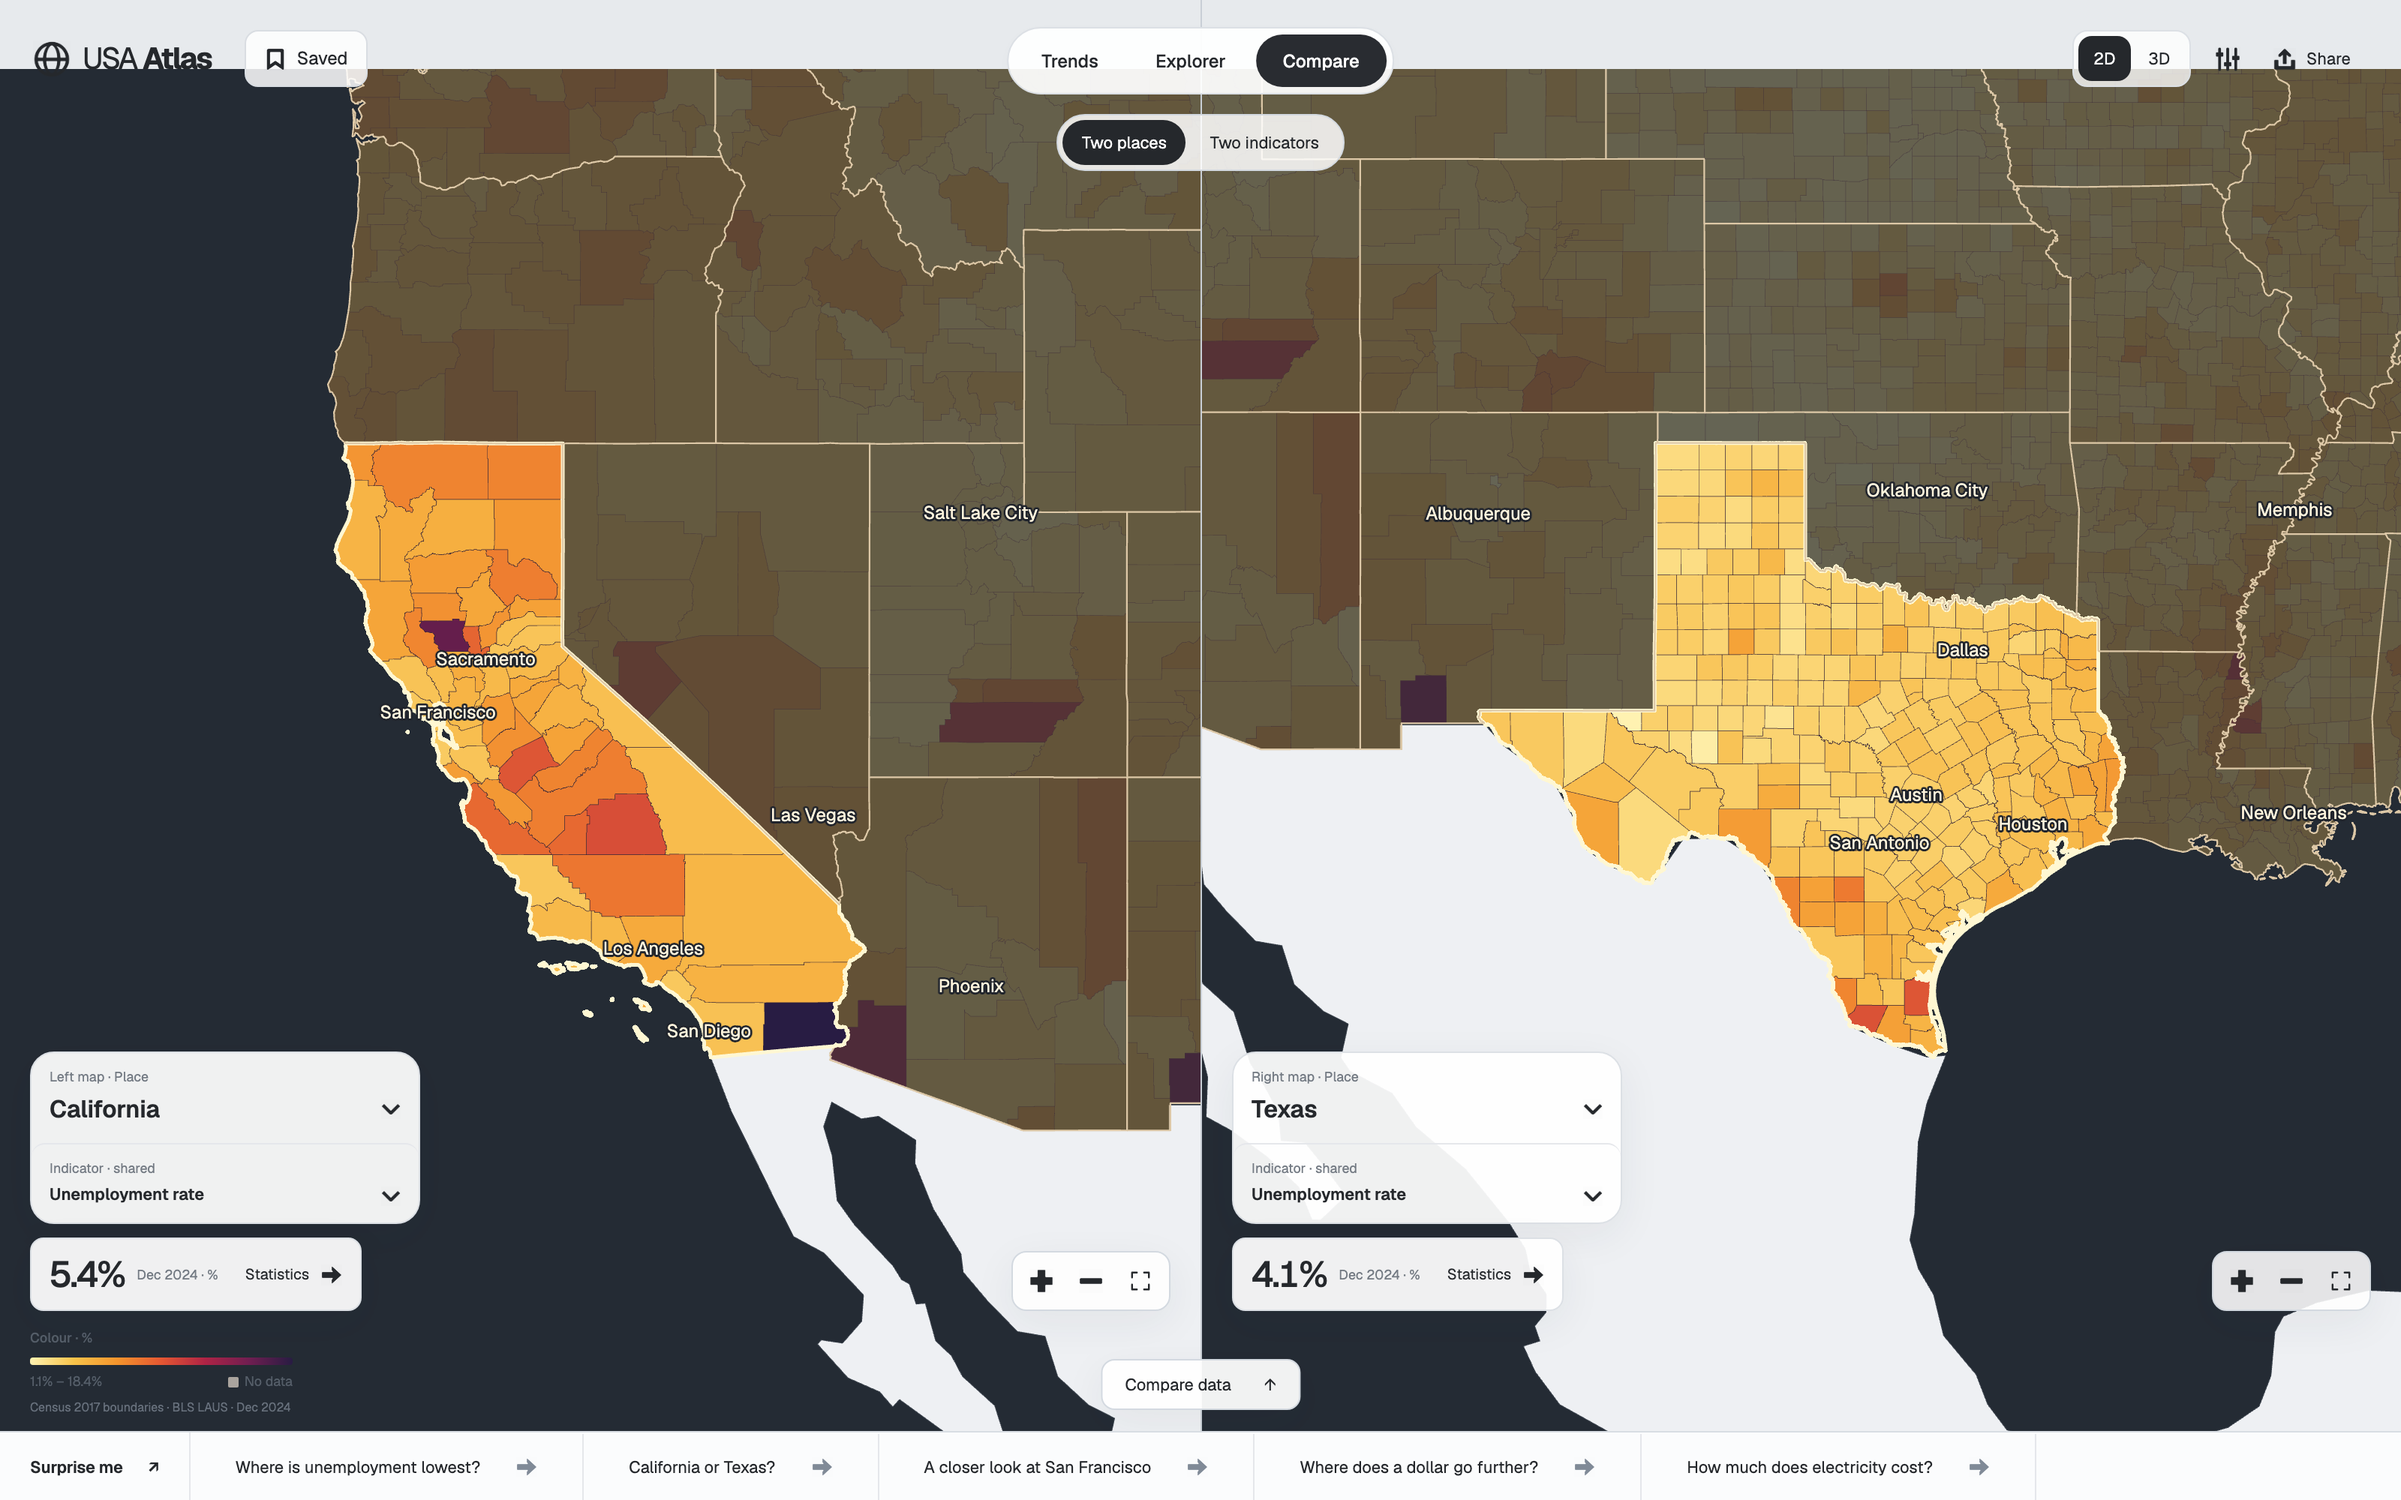
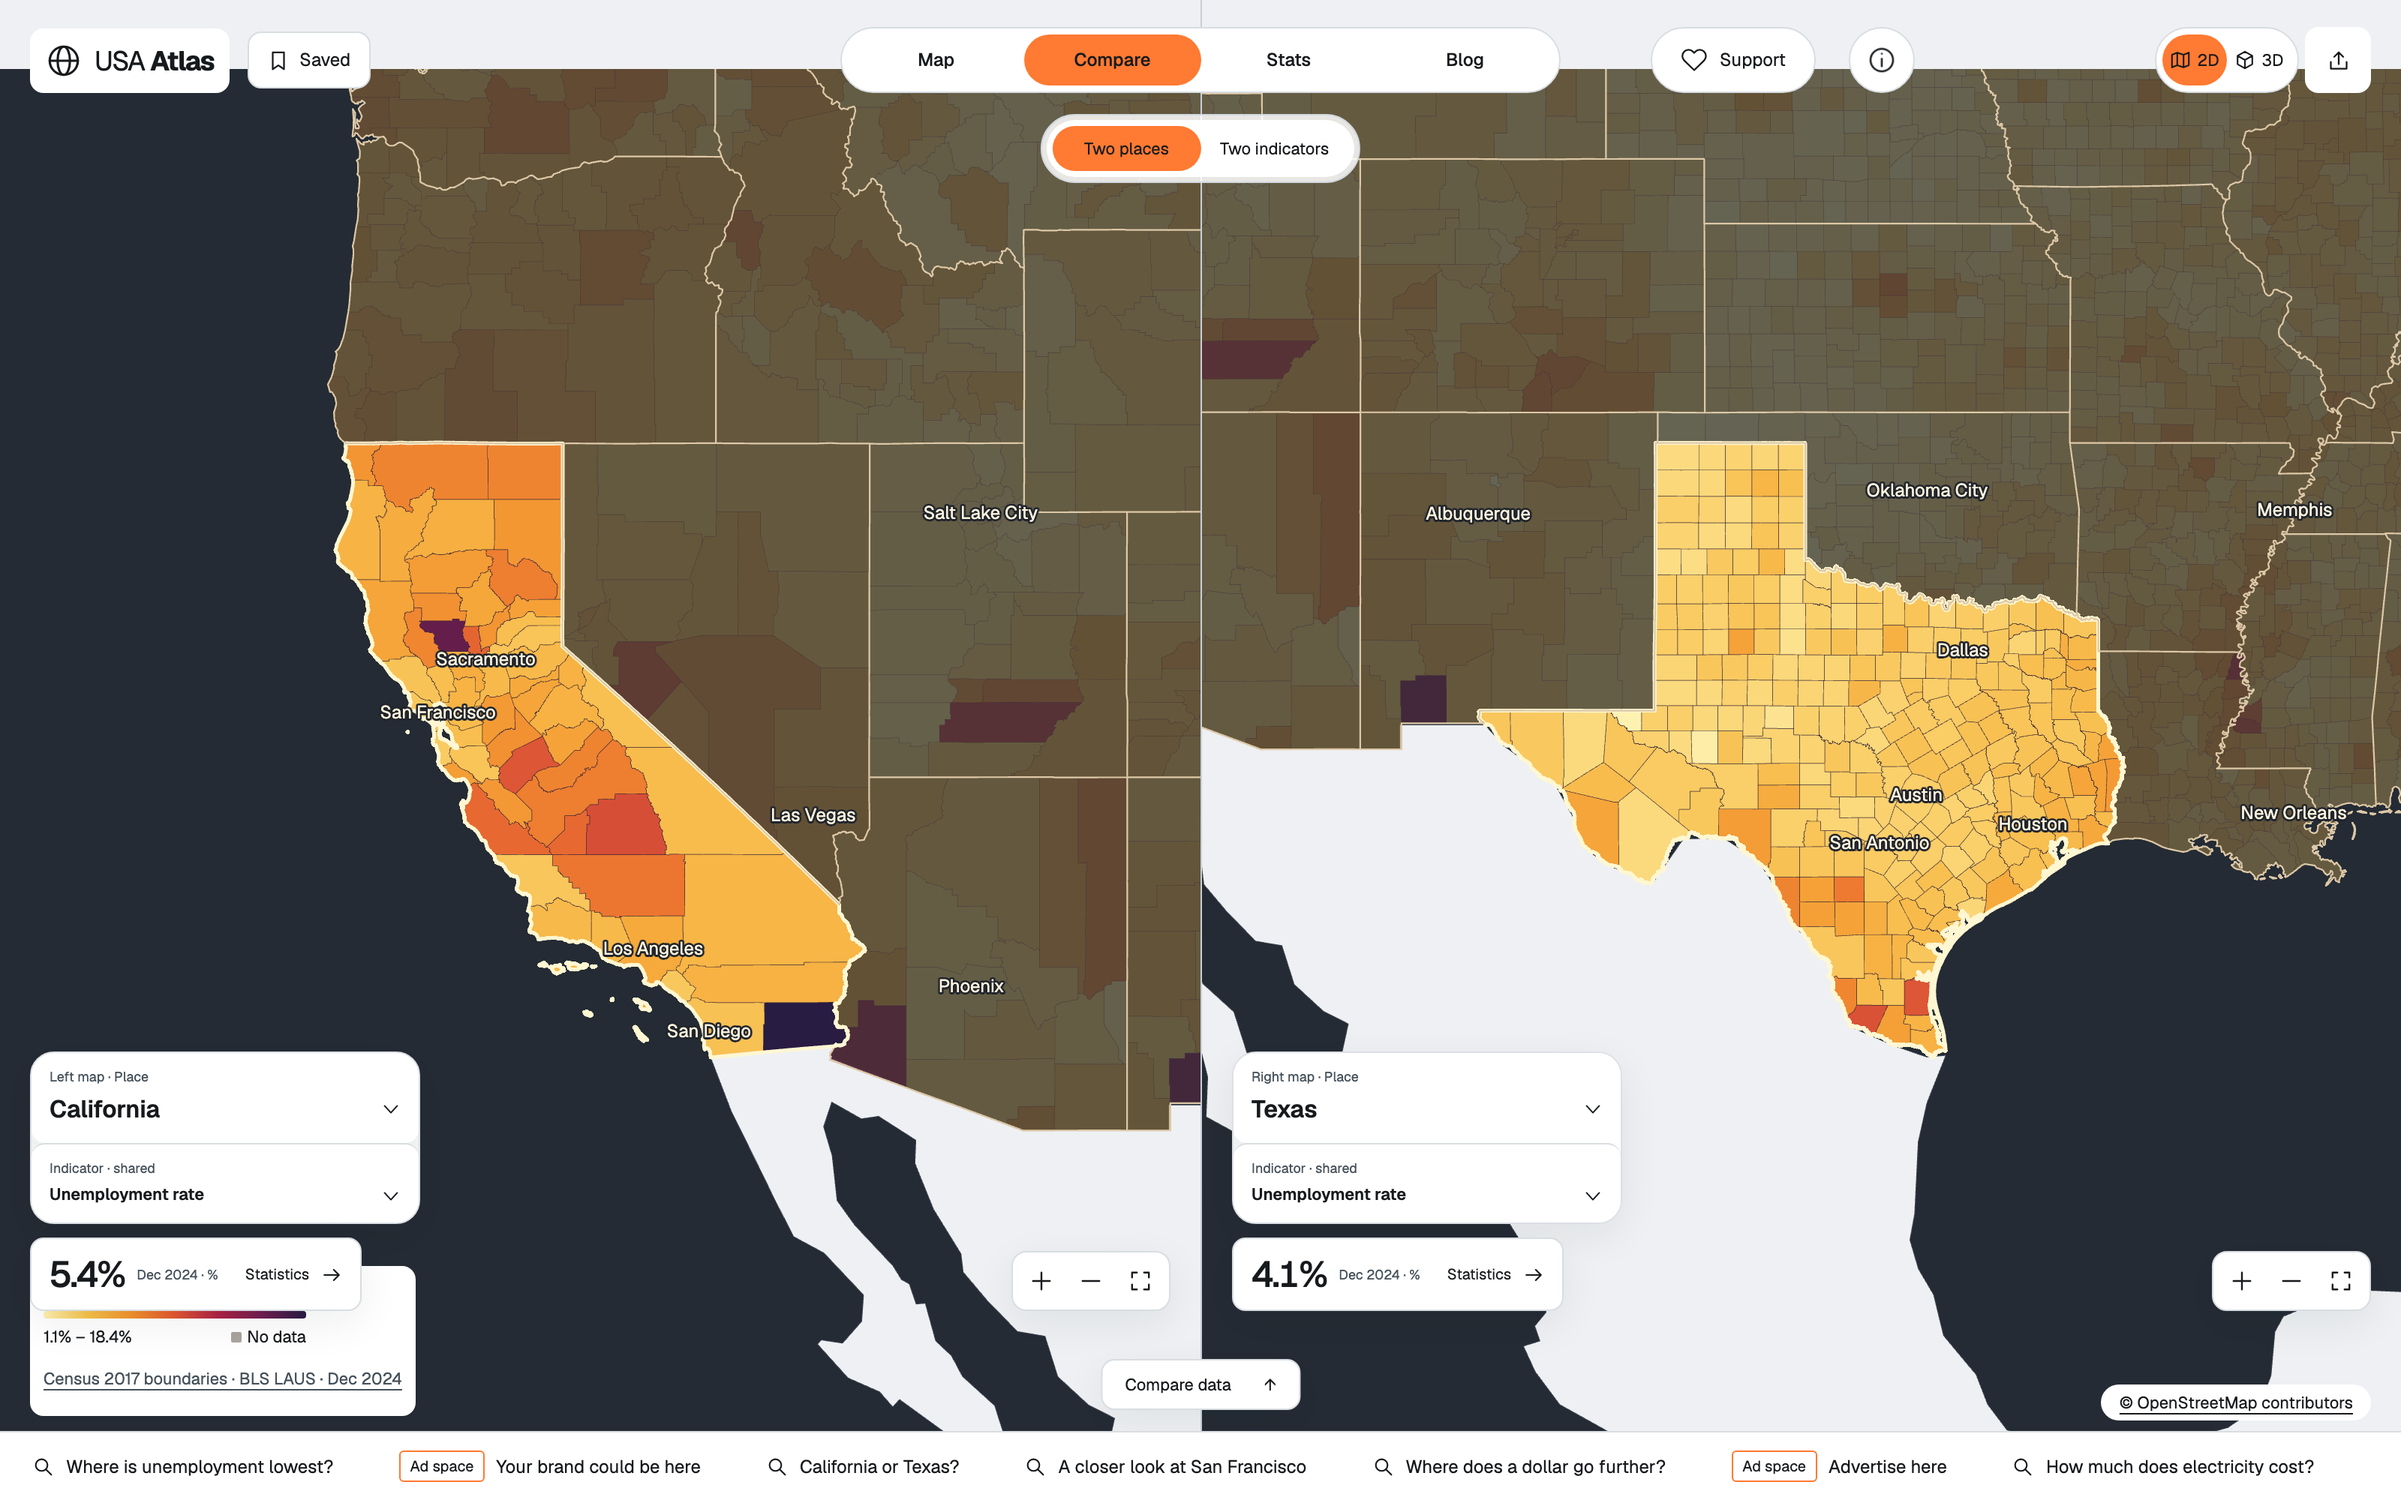
Document the promoted runtime and reshoot the interface screenshots
Replace the September interface description with the promoted Paper
runtime: the Map, Compare, Stats and Blog modes, the light and dark
themes, the desktop panels and the mobile bottom sheet, the shared
display switches and the explicit gaps.

Reshoot the screenshots from a local run of this repository at 1600x1000
for desktop and on a phone viewport, and add the Stats and Blog views.
The advertiser studio is not shown; that scope is deferred.

diff --git a/README.md b/README.md
@@ -8,13 +8,14 @@ USA Atlas is an interactive atlas of US statistics. It links indicators to state
 
 ## Screenshots
 
-Real observations from the connected `usa_atlas` database: unemployment rate by county, December 2024 (BLS LAS).
+Real observations from the connected `usa_atlas` database: unemployment rate by county, December 2024 (BLS LAS). Captured from a local run of this repository.
 
 <p align="middle">
-  <img src="docs/screenshots/01-map-2d-webgl.png" width="49%" alt="Explorer: 2D WebGL county map of California">
+  <img src="docs/screenshots/01-map-2d-webgl.png" width="49%" alt="Explorer: 2D WebGL county map of California with the place panel and quick stats">
   <img src="docs/screenshots/02-map-3d-relief.png" width="49%" alt="Explorer: the same indicator on the 3D relief map">
   <img src="docs/screenshots/03-compare-2d.png" width="49%" alt="Compare: California 5.4% versus Texas 4.1% unemployment">
-  <img src="docs/screenshots/04-advertiser-studio.png" width="49%" alt="Advertising studio: composing a sponsored banner over the national map">
+  <img src="docs/screenshots/04-stats.png" width="49%" alt="Stats: the audience view with an explicit unavailable state">
+  <img src="docs/screenshots/05-blog.png" width="49%" alt="Blog: the Atlas journal with live map previews">
 </p>
 
 The same atlas on a phone:
@@ -29,9 +30,17 @@ The same atlas on a phone:
 
 Standard 2D maps render in WebGL; links without a `renderer` parameter serve WebGL. Saved views and links with an explicit `renderer=svg` keep using SVG, and newly saved or shared links always record the selected renderer in the URL. SVG remains the automatic fallback when WebGL is unavailable, a draw fails, or the context is lost. The 3D renderer is unchanged. The local SVG-vs-WebGL comparison over a frozen set of observations is described in [docs/webgl-comparison-2026-10-11.md](docs/webgl-comparison-2026-10-11.md); the preference for WebGL came from the owner after a local comparison and is not a performance claim.
 
-## Current interface — 20 September, feedback synthesis
+## Current interface — Paper runtime, promoted 20 October 2026
 
-The standard overview uses a white-and-graphite palette, Geist, the **Trends / Explorer / Compare** rows, a photo-lead scroll in the left panel of the place profile, quick statistics for the selected place, and a labelled advertising slot on the right. Search and categories are preserved; popular indicators sit under the selector. Highest / Lowest shows five raw values with coverage and matches, aligned with the 3D labels. Saved replaces the left frame with Back and keeps up to 50 views locally. The period of saved views is labelled, but reopening reads the latest available source snapshot. Share confirms in its own button for five seconds. Surprise opens prepared scenarios; the full-width ticker stops on hover/focus and supports reduced motion.
+The runtime shell is the approved Paper design. The header carries the **Map / Compare / Stats / Blog** modes, a Saved panel, Support and About, and a 2D/3D switch; a light and a dark theme apply to the whole interface and are chosen in About → Appearance. Info and Support are their own screens, and leaving them returns to the page you came from.
+
+On Desktop the map is the workspace. The left panel holds the indicator, the place, a place photograph, the headline value with its unit, period and source, Highest 5 and Lowest 5, and a Compare action. The right column shows quick statistics for the selected place, each with its own period and source, above a labelled advertising slot. The bottom ticker surfaces prepared questions and advertising; it stops on hover and focus and respects reduced motion. 3D is the same selected indicator as colour and height on one labelled scale. Compare places two independent cameras side by side and switches to two indicators, with a compare-data drawer for the numbers.
+
+On a phone the map keeps the top of the screen and the place panel becomes a bottom sheet that expands over the map; Compare stacks the two place maps, and a docked bar switches modes. The source and geometry popups, the camera controls and the sheet transitions follow the same rules on both sizes.
+
+The indicator pickers share one set of display switches: 38 collected fields are enabled — the 35 collected map indicators plus the three admitted medical fields. Only the enabled fields whose default series the connected database has admitted appear in a picker, so the number you see depends on that database. A missing observation stays an explicit gap: a state value is never spread over its counties, and no US average is computed from states.
+
+The Blog is the Atlas journal. It shows live map previews and two editorial drafts that are still marked review pending. Stats is the audience view; no public audience data is connected, so its figures read as unavailable rather than zero.
 
 ## What to open
 
@@ -39,9 +48,9 @@ After starting the server:
 
 - **Interactive atlas:** [http://127.0.0.1:4180/ux/](http://127.0.0.1:4180/ux/) — place search, indicators, state and county comparison, the 2D map and the 3D relief.
 - **Concept gallery:** [http://127.0.0.1:4180/](http://127.0.0.1:4180/) — an early design study with synthetic demo values. These values are not statistics.
-- **Advertising studio:** [http://127.0.0.1:4180/ux/advertise.html](http://127.0.0.1:4180/ux/advertise.html) — an experimental editor. Its local preview is built separately from the connected database's data; the generated snapshot and bundle are intentionally not stored in Git. Instructions live in [ux/advertising/DESIGN.md](ux/advertising/DESIGN.md).
+- **Advertising studio:** [http://127.0.0.1:4180/ux/advertise.html](http://127.0.0.1:4180/ux/advertise.html) — an experimental editor with the accepted Creative and Request layout. It keeps drafts in the browser and downloads a review request; delivery is not configured. Its local preview is built separately from the connected database's data, so the generated snapshot and bundle are intentionally not stored in Git. Instructions live in [ux/advertising/DESIGN.md](ux/advertising/DESIGN.md).
 
-The local review panel used to record map feedback is off by default; add `?review=1` to the atlas URL while reviewing designs.
+The local review panel that records map feedback is a development tool: it is off by default, and `?review=1` on the atlas URL opens it while reviewing designs.
 
 In the atlas, a missing observation remains an explicit gap. A state value is not distributed over counties, ZIP-code or monitoring-station values are not converted to counties, and a US average is not computed from states.
 
@@ -83,10 +92,10 @@ The integration goes through <code>GET /api/atlas/catalog</code> and <code>GET /
 
 ## Repository layout
 
-- <code>ux/</code> — the current atlas interface: map, catalogs and geographic assets.
+- <code>ux/</code> — the current atlas interface: map, catalogs, geographic assets and the journal.
 - <code>scripts/serve.py</code> — the local web server and API; <code>scripts/atlas_data.py</code> — the read-only PostgreSQL adapter.
 - <code>assets/</code>, <code>app.js</code>, <code>maps.js</code>, <code>scene.js</code> and <code>field.js</code> — the separate concept gallery.
-- <code>deploy/</code> — examples of local analytics and mobile environments. They are not needed for a basic run.
+- <code>deploy/</code> — examples of local analytics and mobile environments, and the read-only preview packaging. They are not needed for a basic run.
 - <code>ux/assets/SOURCES.md</code> — provenance and attribution for major interface assets.
 - <code>package-lock.json</code> — pinned versions of npm dependencies.
 
@@ -100,7 +109,7 @@ For a quick integrity check of the gallery run:
 npm run check
 ~~~
 
-The command checks files, geographic assets and synthetic fields. It does not require PostgreSQL. Changes to the atlas or the server API call for additional checks of the relevant code in <code>ux/</code> and <code>scripts/</code>; verify them before sending changes.
+The command checks files, geographic assets and synthetic fields. It does not require PostgreSQL. The atlas itself has its own checks in <code>ux/check-*.mjs</code>: the flat topology and picking suite, the volume geometry and detail suites, the motion suite, the data-store suite, the source-metadata suite, the approved-icon suite and the runtime suite. The Python suites in <code>scripts/test_*.py</code> cover the adapter, the catalog contract, the preview cache and the local server. Continuous integration runs all of them; the checks that need a live database are skipped when PostgreSQL is unavailable. Verify the relevant code in <code>ux/</code> and <code>scripts/</code> before sending changes.
 
 When changing data, keep the original values, units, period, source release and exact geography matching. Do not fill gaps with computations and do not change the geography level without changing the contract and the documentation.
 
